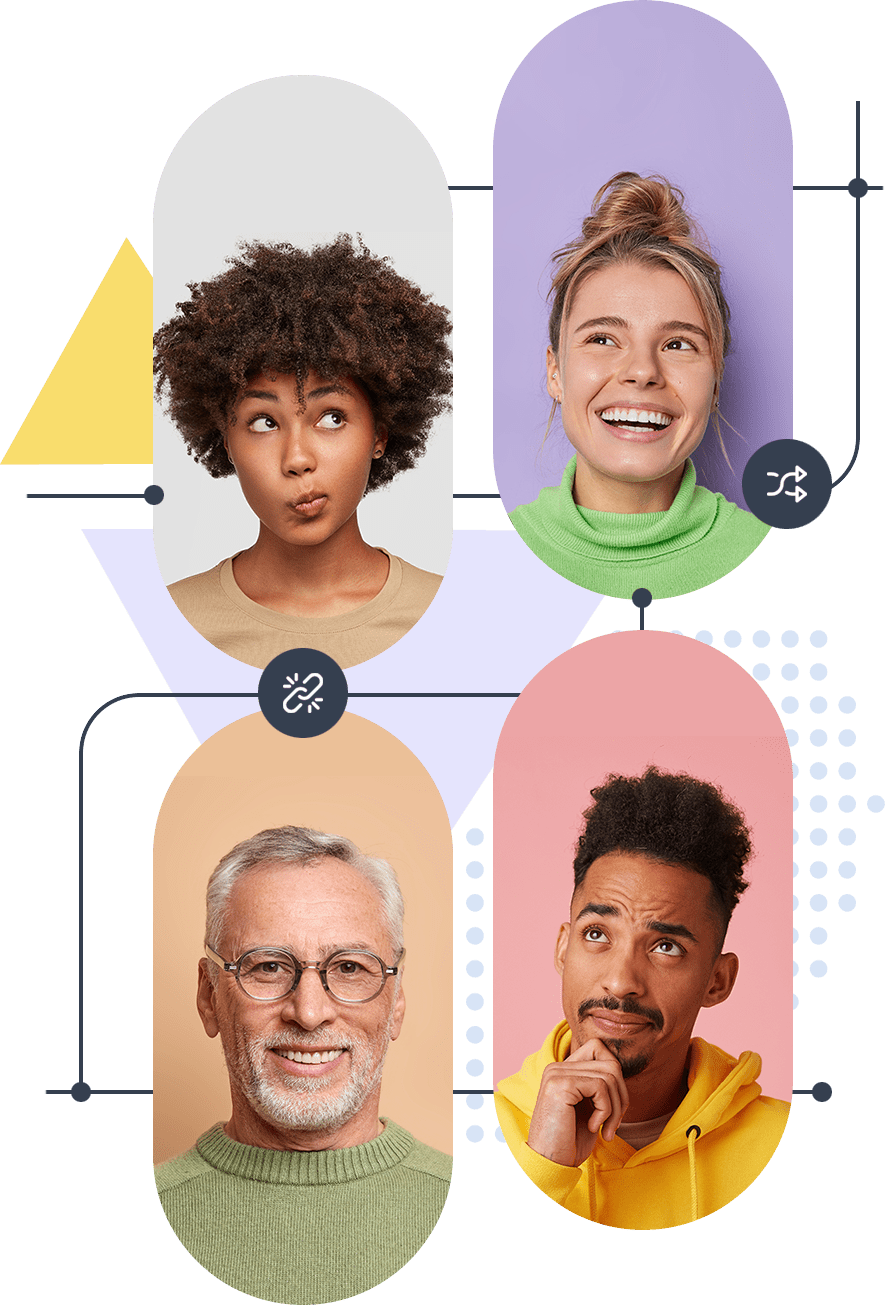
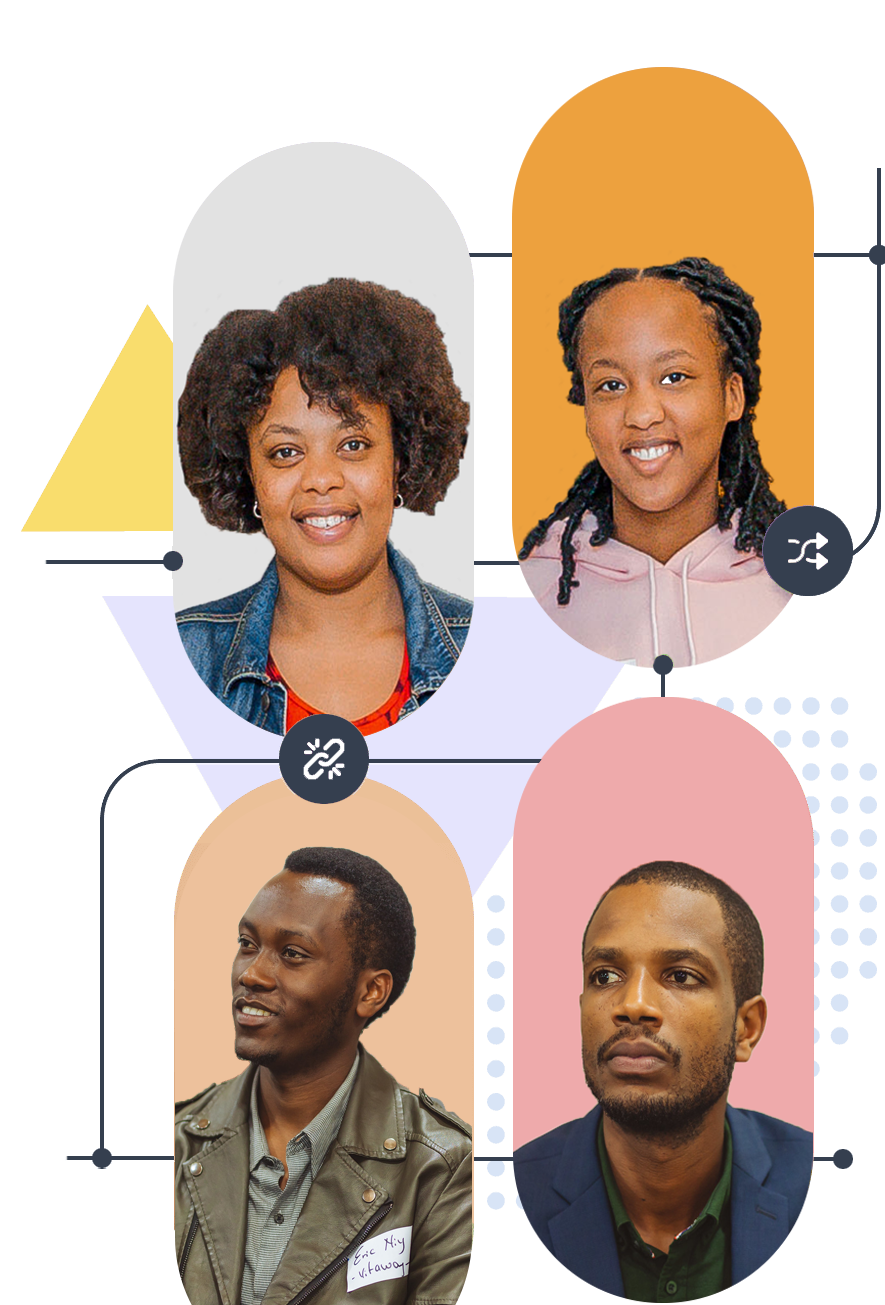
added local pictures on become a partner page

diff --git a/src/components/BecomeMentor/BecomeMentor.jsx b/src/components/BecomeMentor/BecomeMentor.jsx
@@ -1,11 +1,11 @@
 import React from "react";
 import "./BecomeMentor.css";
 import BecomeMentorImage1 from "../../assets/images/happy-businessman-back-view.jpg";
-import BecomeMentorImage2 from "../../assets/images/afro-american-woman-pointing-computer.jpg";
+import BecomeMentorImage2 from "../../assets/images/52753237374_4a03137a43_k.jpg";
 import BecomeMentorImage3 from "../../assets/images/community.jpg";
-import TestimonialsImage1 from "../../assets/images/businesswoman.jpg";
-import TestimonialsImage2 from "../../assets/images/Designermale.jpg";
-import TestimonialsImage3 from "../../assets/images/businesswoman-smiling.jpg";
+import TestimonialsImage1 from "../../assets/images/52975327647_96c9ebc952_k.jpg";
+import TestimonialsImage2 from "../../assets/images/53083423336_702b2f0df4_c.jpg";
+import TestimonialsImage3 from "../../assets/images/52975929656_de38797450_c.jpg";
 import { Link } from "react-router-dom";
 
 function becomeMentor() {

diff --git a/src/components/HeroSection/HeroSection.jsx b/src/components/HeroSection/HeroSection.jsx
@@ -11,7 +11,7 @@ import Head7Bg from "../../assets/images/head7_bg.png";
 import headimg7 from "../../assets/images/head_img7.png";
 import head7rock from "../../assets/images/head7_rock.png";
 import line_l from "../../assets/images/line_l.png";
-import heroimg from "../../assets/images/hero-11-img-7e9471ab.png";
+import heroimg from "../../assets/images/hero-11-img.png";
 import axiosInstance from "../../axiosInstance";
 
 function HeroSection() {
